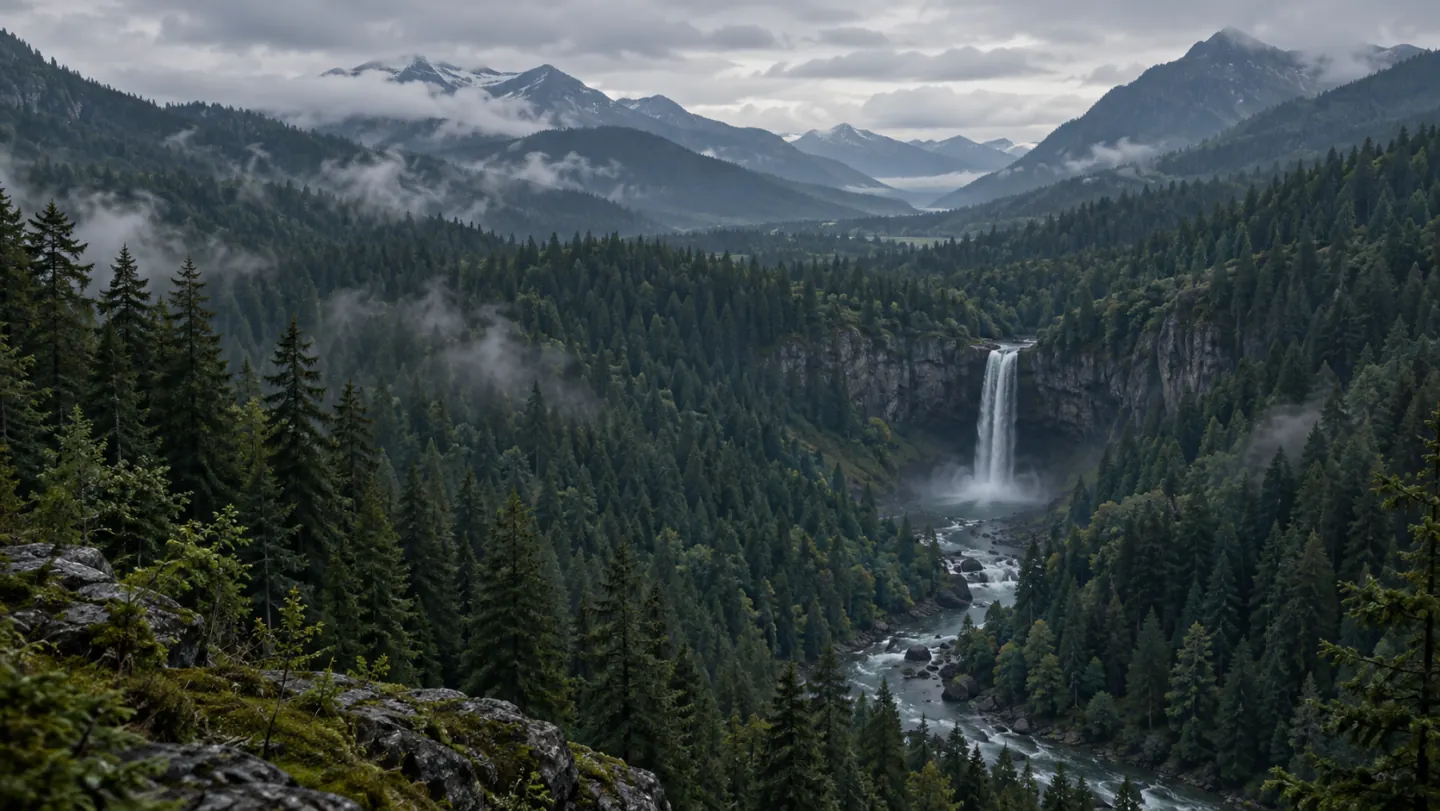
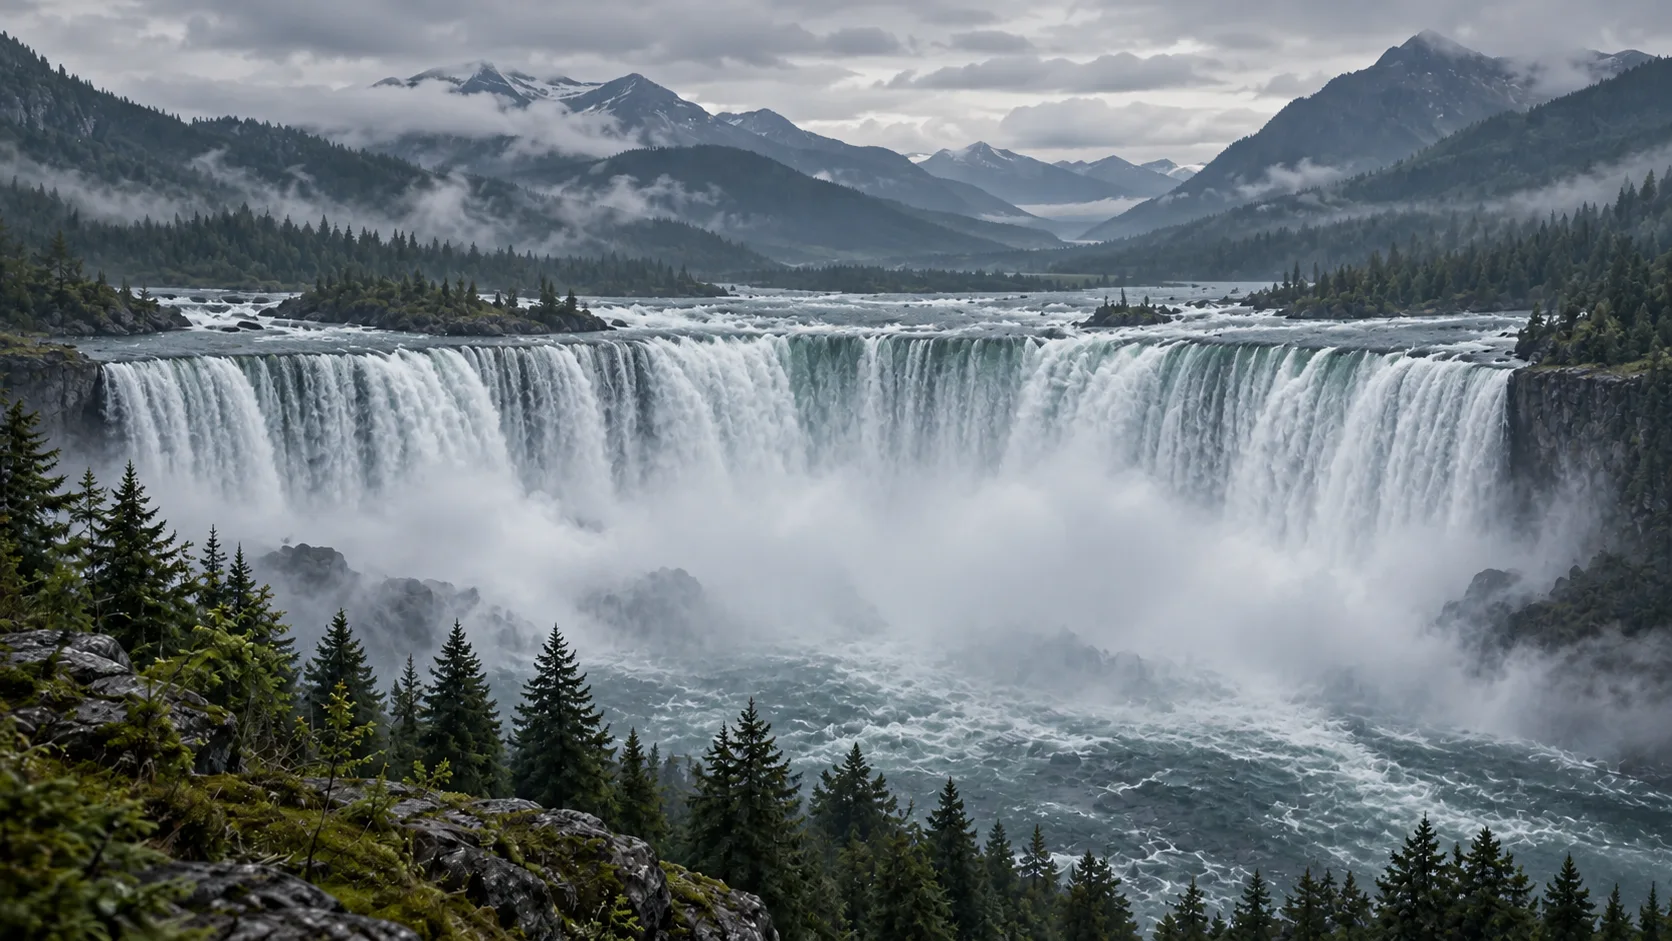
폭포 테마의 넓은 풍경과 물보라 다듬기
넓고 거대한 폭포 이미지로 교체하고 사진 질감과 대비를 보정한다.

물보라를 셰이더에서 위로 흐르게 하며 무지개와 강한 흰점 입자를 제거한다.

diff --git a/src/animated-shaders.ts b/src/animated-shaders.ts
@@ -114,47 +114,56 @@ void main() {
 const 폭포 = `${공통}
 uniform sampler2D u_landscape;
 uniform float u_hasLandscape;
+uniform vec2 u_landscapeSize;
 void main() {
   vec2 p = vec2(v_uv.x, 1.0 - v_uv.y);
   float t = u_time * u_motion;
   vec3 color = mix(vec3(0.055, 0.098, 0.111),
     vec3(0.039, 0.080, 0.091), p.y);
   if (u_hasLandscape > 0.5) {
-    // 사진의 가로세로 비율을 유지한 채 종이 아래쪽에만 보여 준다.
-    float top = 0.53;
+    // 넓은 폭포의 중앙을 유지하며 종이 아래쪽에 사진 비율대로 펼친다.
+    float top = 0.48;
     float height = 1.0 - top;
     float aspect = u_size.x / max(u_size.y, 1.0);
     float regionAspect = aspect / height;
     float coverX = min(1.0, regionAspect / 1.776);
     float coverY = min(1.0, 1.776 / regionAspect);
-    float imageCenterX = mix(0.68, 0.5, coverX);
-    vec2 uv = vec2(imageCenterX + (p.x - 0.5) * coverX,
+    vec2 uv = vec2(0.5 + (p.x - 0.5) * coverX,
       0.5 + ((p.y - top) / height - 0.5) * coverY);
-    vec3 landscape = texture2D(u_landscape, clamp(uv, vec2(0.0), vec2(1.0))).rgb;
-    float reveal = smoothstep(top, top + 0.16, p.y);
-    color = mix(color, landscape * vec3(0.43, 0.53, 0.58),
-      reveal * 0.89 * u_tuning.x);
+    // 물줄기의 질감만 아주 작게 움직여 사진의 절벽과 수평선은 고정한다.
+    float fallBody = smoothstep(0.32, 0.40, uv.y) *
+      (1.0 - smoothstep(0.57, 0.70, uv.y));
+    vec2 imageUv = uv + vec2(0.0, fallBody * 0.0025 *
+      sin(uv.x * 85.0 + uv.y * 35.0 - t * 1.2));
+    vec2 sampleUv = clamp(imageUv, vec2(0.0), vec2(1.0));
+    vec3 landscape = texture2D(u_landscape, sampleUv).rgb;
+    vec2 texel = 2.0 / max(u_landscapeSize, vec2(1.0));
+    vec3 nearby = (texture2D(u_landscape, sampleUv + vec2(texel.x, 0.0)).rgb +
+      texture2D(u_landscape, sampleUv - vec2(texel.x, 0.0)).rgb +
+      texture2D(u_landscape, sampleUv + vec2(0.0, texel.y)).rgb +
+      texture2D(u_landscape, sampleUv - vec2(0.0, texel.y)).rgb) * 0.25;
+    landscape = clamp((landscape + (landscape - nearby) * 0.42 - 0.46) * 1.14 + 0.46,
+      vec3(0.0), vec3(1.0));
+    float reveal = smoothstep(top, top + 0.13, p.y);
+    float textContrast = mix(0.67, 1.0,
+      smoothstep(u_textBottom - 0.02, u_textBottom + 0.09, p.y));
+    color = mix(color, landscape * vec3(0.58, 0.66, 0.70) * textContrast,
+      reveal * 0.96 * u_tuning.x);
 
-    // 물보라는 실제 폭포의 낙하지점과 같은 사진 좌표에서 올라온다.
-    float fallX = 0.5 + (0.70 - imageCenterX) / coverX;
-    float fallY = top + height * (0.5 + (0.63 - 0.5) / coverY);
-    vec2 d = vec2((p.x - fallX) * aspect, p.y - fallY);
-    float plume = exp(-pow(d.x / 0.22, 2.0) -
-      pow((d.y + 0.023) / 0.071, 2.0));
-    float drifting = noise(vec2(p.x * 24.0 + t * 0.06,
-      p.y * 30.0 - t * 0.11));
-    float wisps = noise(vec2(p.x * 48.0 - t * 0.09,
-      p.y * 39.0 - t * 0.18));
-    float mist = plume * (0.22 + drifting * 0.50 + wisps * 0.24);
+    // 낙하지점 전반에서 굵은 안개와 가는 물보라가 서로 다른 속도로 위로 흐른다.
+    float basin = 0.62 + 0.013 * sin(uv.x * 10.0 + t * 0.52);
+    float plume = exp(-pow((uv.y - basin) / 0.16, 2.0));
+    float broad = noise(vec2(uv.x * 8.0 + t * 0.12,
+      uv.y * 12.0 + t * 0.62));
+    float wisps = noise(vec2(uv.x * 22.0 - t * 0.17,
+      uv.y * 25.0 + t * 1.05));
+    float uneven = 0.75 + 0.25 * noise(vec2(uv.x * 5.0, t * 0.28));
+    float mist = plume * (0.07 + smoothstep(0.32, 0.70, broad) * 0.48 +
+      wisps * 0.18) * uneven;
 
-    vec2 spraySpace = vec2(d.x * 55.0, d.y * 105.0);
-    vec2 cell = floor(spraySpace + vec2(t * 0.15, -t * 0.60));
-    vec2 speck = fract(spraySpace + vec2(t * 0.15, -t * 0.60));
-    vec2 center = vec2(hash21(cell + 4.0), hash21(cell + 19.0));
-    float droplets = exp(-pow(length((speck - center) * vec2(1.1, 1.7)) * 6.5, 2.0)) *
-      step(0.78, hash21(cell + 37.0)) * plume;
-    color += vec3(0.18, 0.22, 0.23) * mist * reveal * u_tuning.z;
-    color += vec3(0.13, 0.18, 0.19) * droplets * reveal * u_tuning.z;
+    float textMist = mix(0.52, 1.0,
+      smoothstep(u_textBottom - 0.03, u_textBottom + 0.10, p.y));
+    color += vec3(0.27, 0.30, 0.30) * mist * reveal * textMist * u_tuning.z;
   }
   gl_FragColor = vec4(color, 1.0);
 }`;

diff --git a/src/animated-paper.ts b/src/animated-paper.ts
@@ -233,7 +233,7 @@ export class 동적종이효과 {
     for (const name of ['u_size', 'u_time', 'u_horizon', 'u_textBottom',
       'u_motion', 'u_tuning', 'u_ripples[0]', 'u_focus', 'u_mistake',
       'u_galaxy', 'u_hasGalaxy', 'u_landscape', 'u_hasLandscape',
-      'u_glyphs', 'u_flow']) {
+      'u_landscapeSize', 'u_glyphs', 'u_flow']) {
       this.uniforms[name] = gl.getUniformLocation(program, name);
     }
     if (this.theme === '매트릭스') { this.uploadGlyphs(); }
@@ -586,6 +586,8 @@ export class 동적종이효과 {
       gl.bindTexture(gl.TEXTURE_2D, this.landscapeTexture);
       gl.uniform1i(uniform('u_landscape'), 0);
       gl.uniform1f(uniform('u_hasLandscape'), this.landscapeTexture ? 1 : 0);
+      gl.uniform2f(uniform('u_landscapeSize'), this.landscapeImage?.naturalWidth ?? 1,
+        this.landscapeImage?.naturalHeight ?? 1);
     } else if (this.theme === '매트릭스') {
       gl.activeTexture(gl.TEXTURE0);
       gl.bindTexture(gl.TEXTURE_2D, this.glyphTexture);
